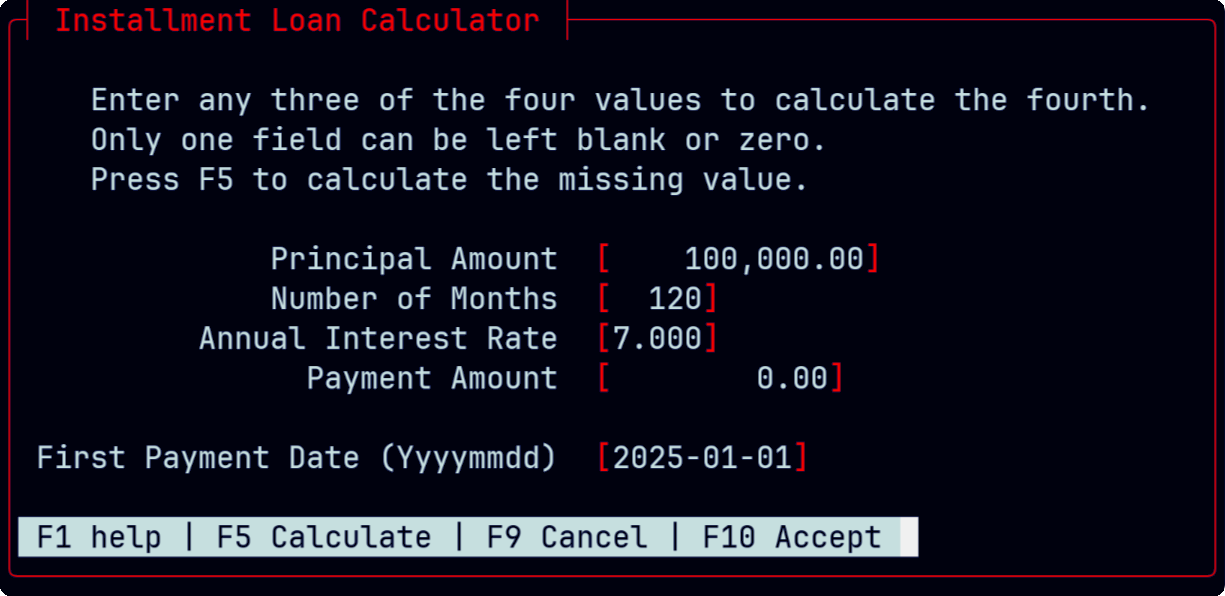
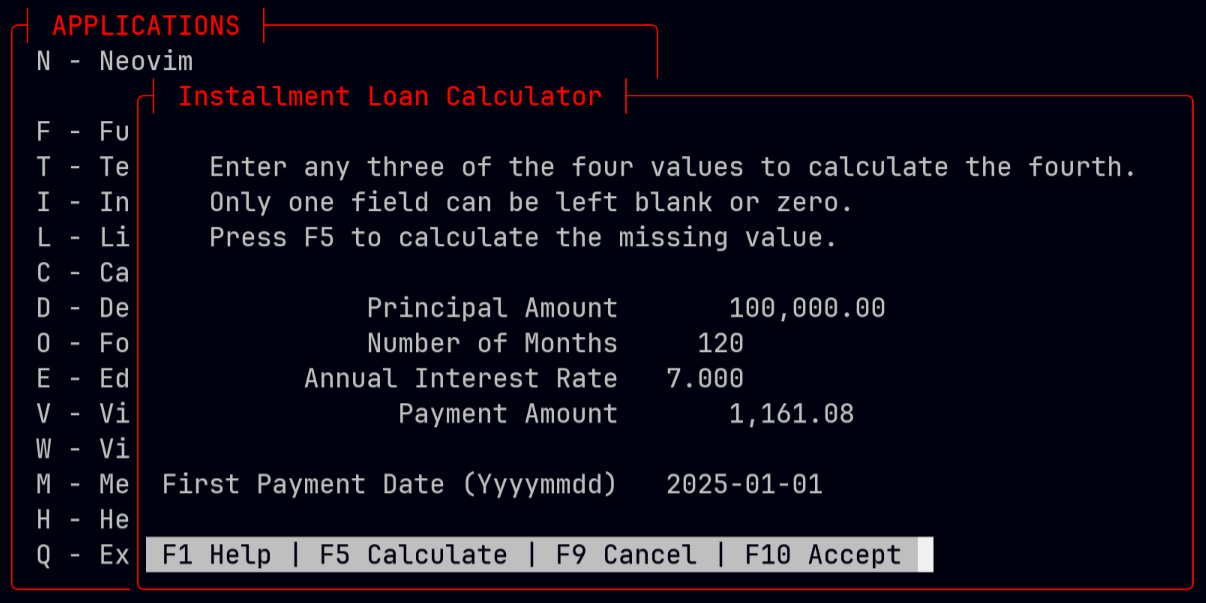
Added section on external executables

Changed region(s): [[0.0, 0.0, 1.0, 1.0]]

diff --git a/doc/FAQ.html b/doc/FAQ.html
@@ -145,153 +145,6 @@ a:active {
     </style>
   </head>
   <body>
-<html>
-  <head>
-    <meta http-equiv="Content-Type" content="text/html; charset=utf-8" >
-    <title></title>
-    <style>
-* {
-	background: #000027;
-	font-size: 20px;
-	font-family: "Source Code Pro", "Courier New", monospace;
-}
-.rounded-code {
-	display: block;
-	background: #002f4f;
-	color: #f0f0f0;
-	border: 1px solid #666060;
-	border-radius: 8px;
-	padding: 8px;
-	width: 60%;
-	margin-left: auto;
-	margin-right: auto;
-	font-family: "Source Code Pro", "Courier New", monospace;
-}
-body {
-	color: #00ff9f;
-	text-align: left;
-	font-family: "Noto Sans Bold", verdana, arial, sans-serif;
-	font-size: 20px;
-	background: #000027;
-}
-.wrap-text {
-	word-wrap: break-word;
-	overflow-wrap: break-word;
-	white-space: normal;
-}
-pre {
-	font-family: "Source Code Pro", "Courier New", monospace;
-	font-size: 20px;
-	width: 60%;
-	color: #e0e0e0;
-	background: #002f4f;
-}
-code {
-	display: block;
-	font-size: 16px;
-	font-family: "Source Code Pro", "Courier New", monospace;
-	width: 60%;
-	text-indent: 0;
-	background: #002f4f;
-}
-
-h1 {
-	color: #40ffdf;
-	font-size: 40px;
-	font-family: "Noto Sans Bold", verdana, arial, sans-serif;
-	margin-left: 5%;
-	margin-right: 12%;
-}
-h2 {
-	color: #40ffdf;
-	font-size: 30px;
-	font-family: "Noto Sans Bold", verdana, arial, sans-serif;
-	margin-left: 7%;
-	margin-right: 12%;
-}
-h3 {
-	color: #40ffdf;
-	font-size: 22px;
-	font-family: "Noto Sans Bold", verdana, arial, sans-serif;
-	margin-left: 10%;
-	margin-right: 12%;
-}
-h4 {
-	color: #40ffdf;
-	font-size: 20px;
-	font-family: "Noto Sans Bold", verdana, arial, sans-serif;
-	margin-left: 10%;
-	margin-right: 12%;
-}
-img {
-	display: block;
-	width: 60%;
-	margin-left: auto;
-	margin-right: auto;
-	border: 1px solid #506090;
-	border-radius: 8px;
-}
-ol {
-	font-size: 20px;
-	margin-left: 0%;
-	margin-right: 12%;
-}
-span {
-	font-size: 20px;
-	margin-left: 12%;
-	margin-right: 12%;
-}
-p {
-	font-size: 20px;
-	margin-left: 12%;
-	margin-right: 12%;
-}
-li {
-	font-size: 20px;
-	margin-left: 12%;
-	margin-right: 12%;
-}
-a {
-	font-size: 20px;
-	margin-left: 12%;
-	margin-right: 12%;
-	font-family: "Noto Sans Bold", verdana, arial, sans-serif;
-}
-a:link {
-	color: #00ff9f;
-	text-decoration: none;
-	margin-left: 12%;
-	margin-right: 12%;
-	font-family: "Noto Sans Bold", verdana, arial, sans-serif;
-	font-size: 20px;
-}
-a:visited {
-	color: #3fcfff;
-	text-decoration: none;
-	margin-left: 12%;
-	margin-right: 12%;
-	font-size: 20px;
-	font-family: "Noto Sans Bold", verdana, arial, sans-serif;
-}
-a:hover {
-	color: #40ffdf;
-	text-decoration: none;
-	margin-left: 12%;
-	margin-right: 12%;
-	font-size: 20px;
-	font-family: "Noto Sans Bold", verdana, arial, sans-serif;
-}
-a:active {
-	color: #ff7700;
-	text-decoration: none;
-	margin-left: 12%;
-	margin-right: 12%;
-	font-size: 20px;
-	font-family: "Noto Sans Bold", verdana, arial, sans-serif;
-}
-    </style>
-  </head>
-  <body>
 <html><head><meta http-equiv="Content-Type" content="text/html; charset=utf-8" /><title></title></head><body><h1>C-Menu FAQ</h1>
 <p>Bill Waller Copyright 2025</p>
 <a href="mailto:billxwaller@gmail.com">billxwaller@gmail.com</a><br>
@@ -366,5 +219,89 @@ man -Tutf8 bash | sed -f ~/menuapp/msrc/man.sed | view
 <img src="screenshots/tree-sitter.png" title="C-Menu View Tree-Sitter" />
 <p>These instructions are admittedly sketchy and hard to follow. We will revise and clarify in the future.</p>
 <hr />
+<h3>C-Menu Form - How to Integrate External Executables</h3>
+<p>Q: How can I integrate external programs into C-Menu Form, such as an SQL Query or calculation?</p>
+<p>A: We can use the executable &quot;iloan&quot; included with C-Menu as an example.</p>
+<p>The Form will have four fields. The user must enter any three of the four values. Only one field may be zero. Iloan will calculate the value of the missing field and C-Menu Form will display it.</p>
+<p>First, create a form file named &quot;~/menuapp/msrc/iloan.f&quot; with the following contents:</p>
+<pre class="rounded-code"><code>H:Installment Loan Calculator
+
+T:5:14:Principal Amount:
+F:5:33:14:Currency
+
+T:6:14:Number of Months:
+F:6:33:5:Decimal_Int
+
+T:7:10:Annual Interest Rate:
+F:7:33:5:APR
+
+T:8:16:Payment Amount:
+F:8:33:12:Currency
+
+T:10:1:First Payment Date (Yyyymmdd):
+F:10:33:10:Yyyymmdd
+
+C
+?iloan.hlp
+</code></pre>
+<p>Next, create a help file named &quot;~/menuapp/help/iloan.hlp&quot; with the following contents:</p>
+<pre class="rounded-code"><code>Installment Loan Calculator Help
+This form calculates the missing value of an installment loan.
+Enter any three of the four values. Leave the value to be calculated as zero.
+Only one field may be zero.
+Fields:
+Principal Amount - The total amount of the loan.
+Number of Months - The total number of monthly payments.
+Annual Interest Rate - The annual interest rate as a percentage.
+Payment Amount - The amount of each monthly payment.
+First Payment Date - The date of the first payment in YYYYMMDD format.
+</code></pre>
+<p>Add the following two lines to &quot;~/menuapp/msrc/main.m&quot;:</p>
+<pre class="rounded-code"><code>:     Installment Loan Calculations
+!form iloan.f -i iloan.dat -S iloan -o iloan.dat
+</code></pre>
+<p>This will add a menu item to the Main Menu that will launch the Iloan Form.
+When you select the &quot;Installment Loan Calculations&quot; menu item, C-Menu Form will display the Iloan Form. After you enter any three of the four values and press Enter, C-Menu Form will call the &quot;iloan&quot; executable to calculate the missing value and display it in the form.</p>
+<p>C-Menu Form will complain that &quot;iloan.dat&quot; does not exist the first time you run the form. This is normal. C-Menu Form will create the file when you exit the form.</p>
+<h3>Installment Loan Calculator</h3>
+<img src="screenshots/iloan.png" title="Installment Loan Calculator" />
+<p>After you enter the three values, you will see an option &quot;F5 Calculate&quot;. Press F5 to calculate the missing value. When the calculation is complete, the missing value will be displayed in the form. You will then see an option, &quot;F8 Edit&quot;, which will allow you to make changes and try again. If you don't wish to make changes, press &quot;F10 Accept&quot; to
+write all four values to &quot;iloan.dat&quot; and exit the form.</p>
+<p>The next time you run the form, C-Menu Form will read the values from &quot;iloan.dat&quot; and display them in the form.</p>
+<p>Here's a summary of the important parts of the form file format:</p>
+<h3>Line Type Speecifiers (H, T, F, and ?)</h3>
+<ul>
+<li>
+<h1>Comment line (ignored)</h1>
+</li>
+<li>H - The header to be displayed at the top of the form</li>
+<li>T - Text field (line:column:length:text)</li>
+<li>F - Input field (line:column:length:type)</li>
+<li>? - A user supplied help file for the form. If no path is given, Form will look for a file with the same name as the form but with a .hlp extension. It will search in the current directory and then in the menu help directory, ~/menuapp/help.</li>
+</ul>
+<h3>Field Delimiters:</h3>
+<p>The &quot;:&quot; character is used as a delimiter in the fields above, but any
+character that is placed immediately after the line designator (H, T, F, ?)
+can be used as a delimiter. For example, the following two lines are
+equivalent:</p>
+<pre class="rounded-code"><code>T:2:4:Enter any three of the four values to calculate the fourth.
+T|2|4|Enter any three of the four values to calculate the fourth.
+</code></pre>
+<h3>Data Types:</h3>
+<p>The following data types are currently supported for input fields:</p>
+<pre class="rounded-code"><code>   String: Any text
+</code></pre>
+<p>Decimal_Int: Integer number
+Hex_Int: Hexadecimal integer
+Float: Floating point number
+Double: Double precision floating point number
+Currency: Currency amount
+APR: Annual Percentage Rate
+Yyyymmdd: Date in YYYYMMDD format
+HHMMSS: Time in HHMMSS format</p>
+<p>Note that the data types determine field formatting, and on entry, numeric data is converted to its corresponding internal binary format, so that calculations can be performed. Both text and internal numeric binary data are available to the developer.</p>
+<p>For applications that demand extreme accuracy, our plan is to integrate the &quot;decNumber C Library&quot;, Copyright © IBM Corporation 2010, to provide 128 bit BCD (Binary Coded Decimal) in a future release.</p>
+<p>The Field Format Specifiers can be any combination of upper and lower case,
+and new types can be easily added by modifying the source code.</p>
+<hr />
 </body></html></body></html>
-</body></html>

diff --git a/doc/FAQ.md b/doc/FAQ.md
@@ -58,7 +58,6 @@ You can save this script to a file, or use the one that comes with C-Menu, (~/me
     man bash
     man -Tutf8 bash | sed -f ~/menuapp/msrc/man.sed | view
 
-
 This will display the bash manual page with the specified colors in C-Menu View.
 
 <img src="screenshots/man-page.png" title="Colorizer" />
@@ -124,5 +123,118 @@ Type the following command:
 
 These instructions are admittedly sketchy and hard to follow. We will revise and clarify in the future.
 
+---
+
+### C-Menu Form - How to Integrate External Executables
+
+Q: How can I integrate external programs into C-Menu Form, such as an SQL Query or calculation?
+
+A: We can use the executable "iloan" included with C-Menu as an example.
+
+The Form will have four fields. The user must enter any three of the four values. Only one field may be zero. Iloan will calculate the value of the missing field and C-Menu Form will display it.
+
+First, create a form file named "~/menuapp/msrc/iloan.f" with the following contents:
+
+```
+H:Installment Loan Calculator
+
+T:5:14:Principal Amount:
+F:5:33:14:Currency
+
+T:6:14:Number of Months:
+F:6:33:5:Decimal_Int
+
+T:7:10:Annual Interest Rate:
+F:7:33:5:APR
+
+T:8:16:Payment Amount:
+F:8:33:12:Currency
+
+T:10:1:First Payment Date (Yyyymmdd):
+F:10:33:10:Yyyymmdd
+
+C
+?iloan.hlp
+```
+
+Next, create a help file named "~/menuapp/help/iloan.hlp" with the following contents:
+
+```
+Installment Loan Calculator Help
+This form calculates the missing value of an installment loan.
+Enter any three of the four values. Leave the value to be calculated as zero.
+Only one field may be zero.
+Fields:
+Principal Amount - The total amount of the loan.
+Number of Months - The total number of monthly payments.
+Annual Interest Rate - The annual interest rate as a percentage.
+Payment Amount - The amount of each monthly payment.
+First Payment Date - The date of the first payment in YYYYMMDD format.
+```
+
+Add the following two lines to "~/menuapp/msrc/main.m":
+
+```
+:     Installment Loan Calculations
+!form iloan.f -i iloan.dat -S iloan -o iloan.dat
+```
+
+This will add a menu item to the Main Menu that will launch the Iloan Form.
+When you select the "Installment Loan Calculations" menu item, C-Menu Form will display the Iloan Form. After you enter any three of the four values and press Enter, C-Menu Form will call the "iloan" executable to calculate the missing value and display it in the form.
+
+C-Menu Form will complain that "iloan.dat" does not exist the first time you run the form. This is normal. C-Menu Form will create the file when you exit the form.
+
+### Installment Loan Calculator
+
+<img src="screenshots/iloan.png" title="Installment Loan Calculator" />
+
+After you enter the three values, you will see an option "F5 Calculate". Press F5 to calculate the missing value. When the calculation is complete, the missing value will be displayed in the form. You will then see an option, "F8 Edit", which will allow you to make changes and try again. If you don't wish to make changes, press "F10 Accept" to
+write all four values to "iloan.dat" and exit the form.
+
+The next time you run the form, C-Menu Form will read the values from "iloan.dat" and display them in the form.
+
+Here's a summary of the important parts of the form file format:
+
+### Line Type Speecifiers (H, T, F, and ?)
+
+- # Comment line (ignored)
+- H - The header to be displayed at the top of the form
+- T - Text field (line:column:length:text)
+- F - Input field (line:column:length:type)
+- ? - A user supplied help file for the form. If no path is given, Form will look for a file with the same name as the form but with a .hlp extension. It will search in the current directory and then in the menu help directory, ~/menuapp/help.
+
+### Field Delimiters:
+
+The ":" character is used as a delimiter in the fields above, but any
+character that is placed immediately after the line designator (H, T, F, ?)
+can be used as a delimiter. For example, the following two lines are
+equivalent:
+
+```
+T:2:4:Enter any three of the four values to calculate the fourth.
+T|2|4|Enter any three of the four values to calculate the fourth.
+```
+
+### Data Types:
+
+The following data types are currently supported for input fields:
+
+       String: Any text
+
+Decimal_Int: Integer number
+Hex_Int: Hexadecimal integer
+Float: Floating point number
+Double: Double precision floating point number
+Currency: Currency amount
+APR: Annual Percentage Rate
+Yyyymmdd: Date in YYYYMMDD format
+HHMMSS: Time in HHMMSS format
+
+Note that the data types determine field formatting, and on entry, numeric data is converted to its corresponding internal binary format, so that calculations can be performed. Both text and internal numeric binary data are available to the developer.
+
+For applications that demand extreme accuracy, our plan is to integrate the "decNumber C Library", Copyright © IBM Corporation 2010, to provide 128 bit BCD (Binary Coded Decimal) in a future release.
+
+The Field Format Specifiers can be any combination of upper and lower case,
+and new types can be easily added by modifying the source code.
 
 ---
